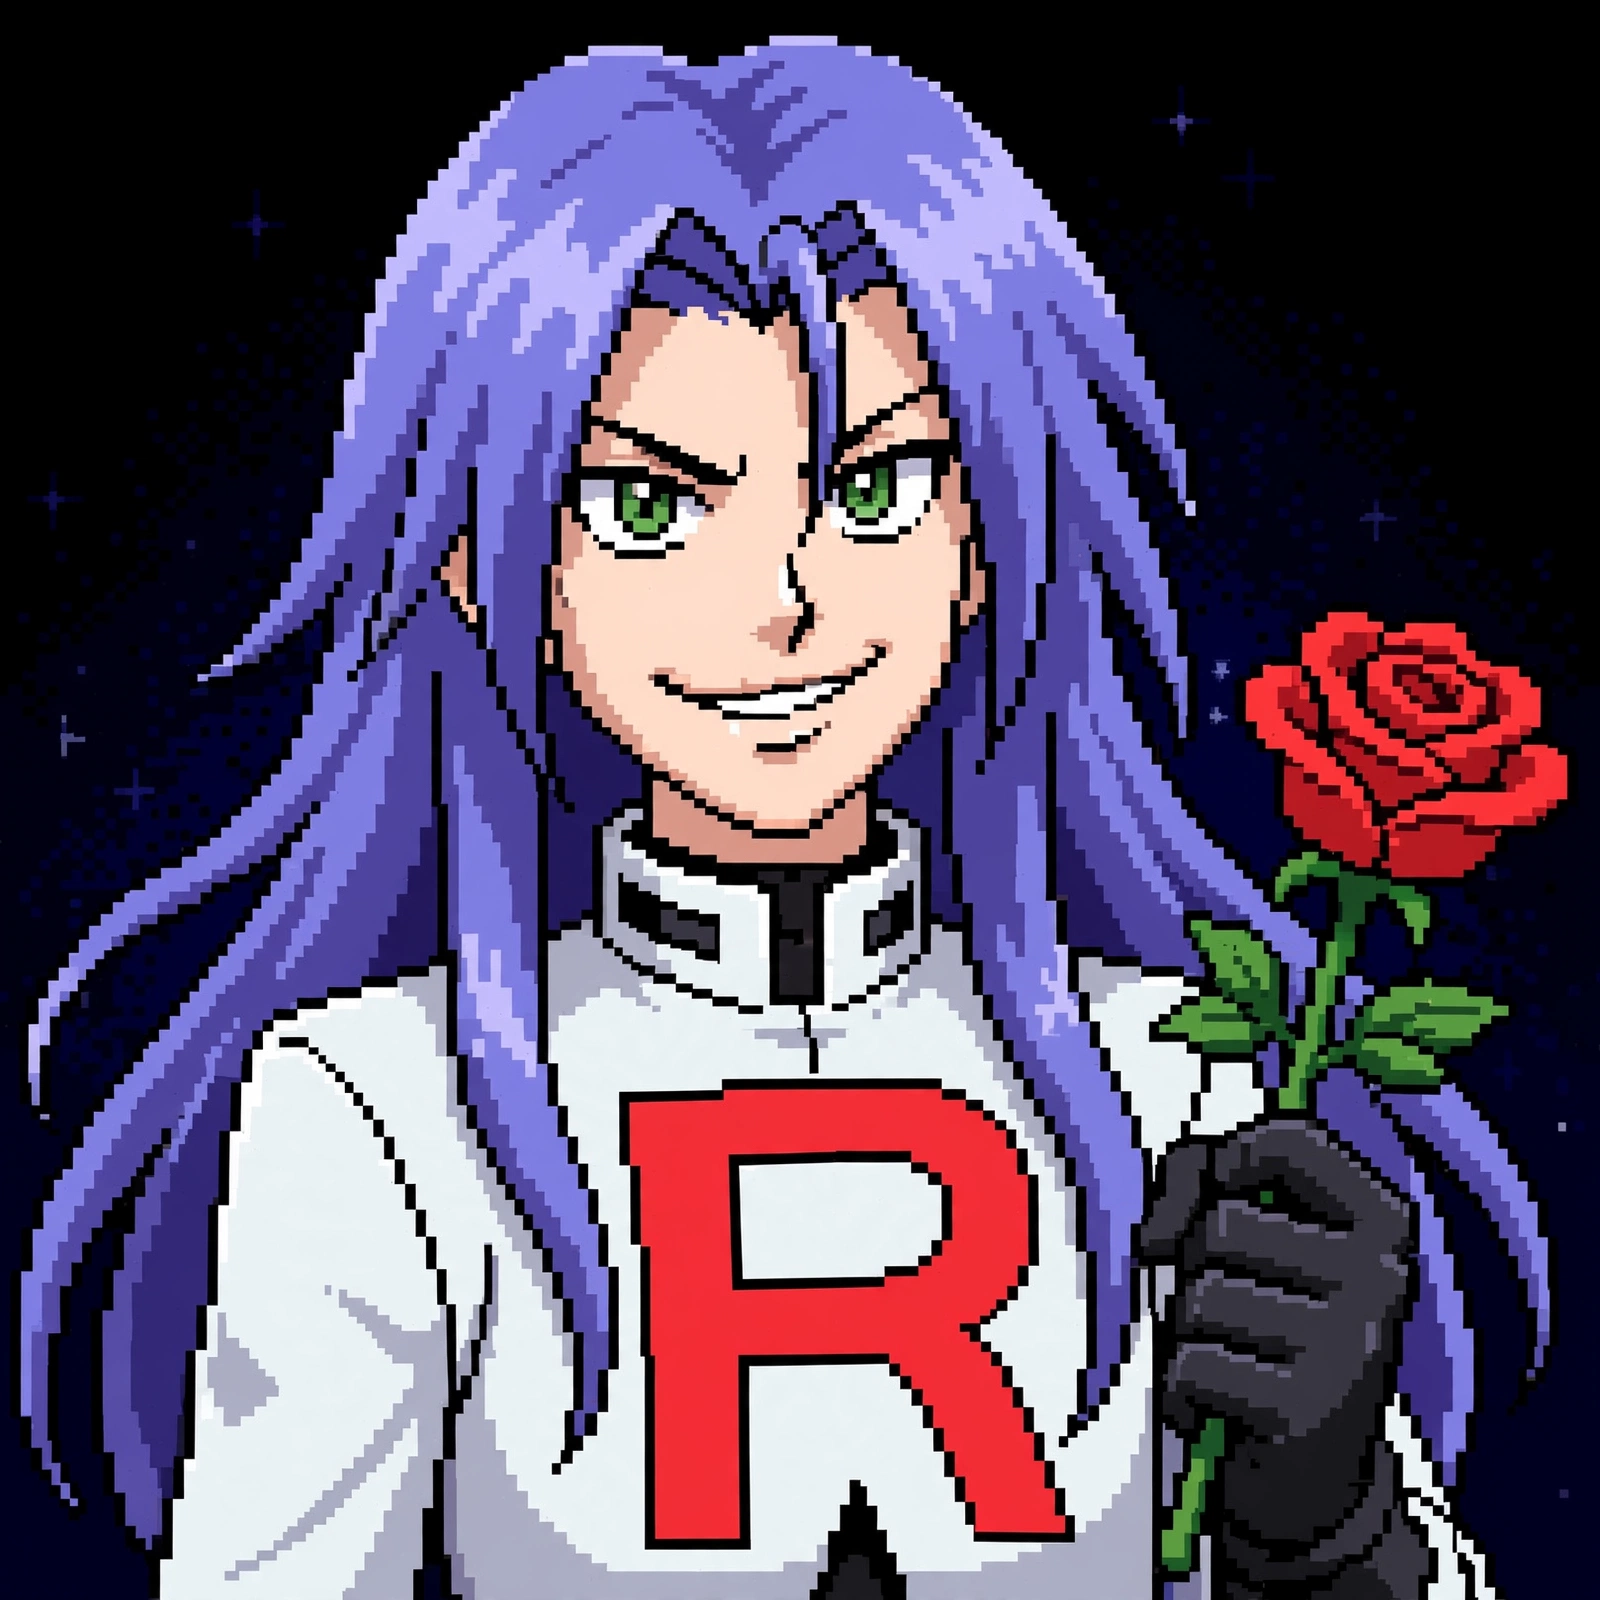
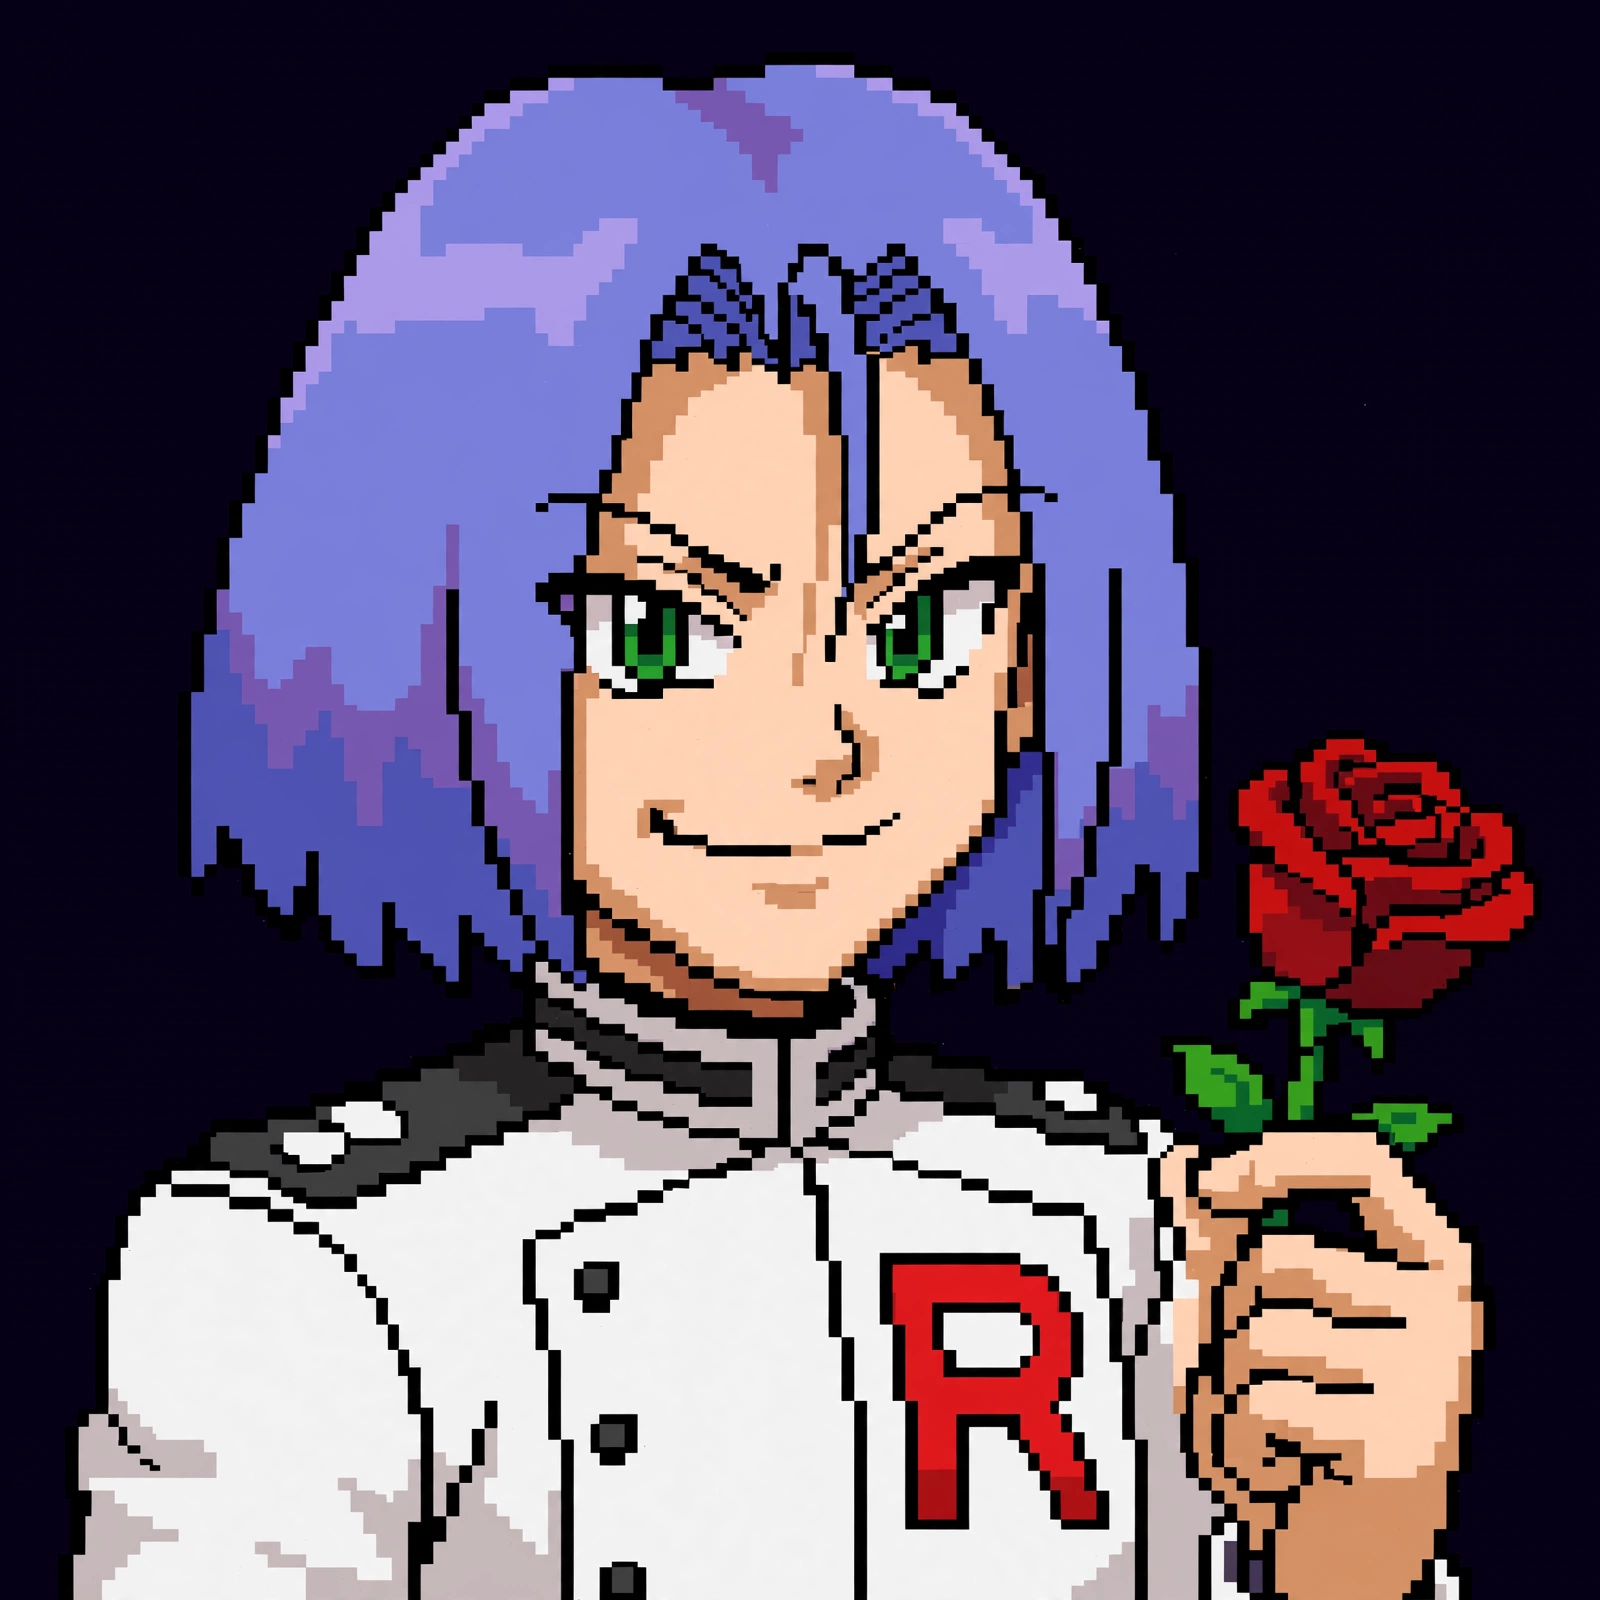
로이 단발로 수정

diff --git a/src/ui/main.js b/src/ui/main.js
@@ -1,12 +1,12 @@
 // DOM glue: renders controller state into regions, wires taps, and paces AI turns.
 
-import { CARDS } from '../data/cards.js?v=1791268011';
-import { ACHIEVEMENTS, checkAchievements } from '../data/achievements.js?v=1791268011';
-import { CHALLENGES, challengeWon } from '../data/challenges.js?v=1791268011';
-import { createController } from './controller.js?v=1791268011';
-import * as V from './view.js?v=1791268011';
-import { getBonuses, getPoints, bonusList } from '../core/engine.js?v=1791268011';
-import { browserStorage, loadDex, loadSave, saveGame, clearSave, recordCatch, recordGame, loadOptions, saveOptions, loadAchv, unlockAchv, loadRecords, recordResult, victoryScore, loadChal, completeChal } from '../storage/store.js?v=1791268011';
+import { CARDS } from '../data/cards.js?v=1791268496';
+import { ACHIEVEMENTS, checkAchievements } from '../data/achievements.js?v=1791268496';
+import { CHALLENGES, challengeWon } from '../data/challenges.js?v=1791268496';
+import { createController } from './controller.js?v=1791268496';
+import * as V from './view.js?v=1791268496';
+import { getBonuses, getPoints, bonusList } from '../core/engine.js?v=1791268496';
+import { browserStorage, loadDex, loadSave, saveGame, clearSave, recordCatch, recordGame, loadOptions, saveOptions, loadAchv, unlockAchv, loadRecords, recordResult, victoryScore, loadChal, completeChal } from '../storage/store.js?v=1791268496';
 
 const params = new URLSearchParams(location.search);
 const AI_DELAY = params.has('fast') ? 0 : 1600; // ?fast=1 skips the pacing delay (tests)

diff --git a/src/ui/view.js b/src/ui/view.js
@@ -1,12 +1,12 @@
 // Pure HTML-string renderers. Each takes the controller and returns markup; main.js owns the DOM.
 // All text interpolated here comes from our own card data / constants (no user input).
 
-import { COLORS, MASTER, PHASES, TOKEN_KEYS } from '../core/constants.js?v=1791268011';
-import { getBonuses, getPoints, tokenCount, bonusList, isSpecial } from '../core/engine.js?v=1791268011';
-import { BALLS, TRAINERS, evoText } from './controller.js?v=1791268011';
-import { dexSummary } from '../storage/store.js?v=1791268011';
-import { ACHIEVEMENTS } from '../data/achievements.js?v=1791268011';
-import { CHALLENGES, challengeProgress } from '../data/challenges.js?v=1791268011';
+import { COLORS, MASTER, PHASES, TOKEN_KEYS } from '../core/constants.js?v=1791268496';
+import { getBonuses, getPoints, tokenCount, bonusList, isSpecial } from '../core/engine.js?v=1791268496';
+import { BALLS, TRAINERS, evoText } from './controller.js?v=1791268496';
+import { dexSummary } from '../storage/store.js?v=1791268496';
+import { ACHIEVEMENTS } from '../data/achievements.js?v=1791268496';
+import { CHALLENGES, challengeProgress } from '../data/challenges.js?v=1791268496';
 
 const diffLabel = { easy: '쉬움', normal: '보통', hard: '어려움' };
 

diff --git a/src/ai/heuristic.js b/src/ai/heuristic.js
@@ -3,10 +3,10 @@
 // Works in every phase (action / discard / evolve); the UI drives AI turns with it.
 // Turn pacing (0.8s) lives in ui/main.js (AI_DELAY), not here.
 
-import { COLORS, MASTER, TOKEN_KEYS, PHASES, MAX_TOKENS, MAX_HAND, TIER_KEYS } from '../core/constants.js?v=1791268011';
+import { COLORS, MASTER, TOKEN_KEYS, PHASES, MAX_TOKENS, MAX_HAND, TIER_KEYS } from '../core/constants.js?v=1791268496';
 import {
   legalActions, getCurrentPlayer, getBonuses, bonusList, isSpecial, evolveOptions, tokenCount,
-} from '../core/engine.js?v=1791268011';
+} from '../core/engine.js?v=1791268496';
 
 const BASE_JITTER = 0.01; // breaks exact ties so the three AIs do not play identically
 

diff --git a/index.html b/index.html
@@ -7,7 +7,7 @@
 <title>포켓몬 스플렌더</title>
 <link rel="icon" href="assets/favicon.ico" sizes="any">
 <link rel="icon" type="image/png" href="assets/items/poke-ball.png">
-<link rel="stylesheet" href="css/style.css?v=1791268011">
+<link rel="stylesheet" href="css/style.css?v=1791268496">
 </head>
 <body>
 <div class="phone" id="app">
@@ -34,6 +34,6 @@
 </div>
 <div id="sheet"></div>
 <div id="overlay"></div>
-<script type="module" src="src/ui/main.js?v=1791268011"></script>
+<script type="module" src="src/ui/main.js?v=1791268496"></script>
 </body>
 </html>

diff --git a/src/core/engine.js b/src/core/engine.js
@@ -5,8 +5,8 @@ import {
   COLORS, MASTER, TOKEN_KEYS, MASTER_TOTAL, TOKENS_PER_COLOR, MAX_TOKENS, MAX_HAND,
   WIN_POINTS, TIER_KEYS, RESERVABLE_TIER_KEYS, TABLE_SLOTS, SPECIAL_TIER_KEYS, PHASES,
   RULE_CHOICES,
-} from './constants.js?v=1791268011';
-import { nextInt, shuffle } from './rng.js?v=1791268011';
+} from './constants.js?v=1791268496';
+import { nextInt, shuffle } from './rng.js?v=1791268496';
 
 const ok = (state, events) => ({ ok: true, state, events });
 const fail = (error) => ({ ok: false, error });

diff --git a/src/ui/controller.js b/src/ui/controller.js
@@ -5,8 +5,8 @@
 import {
   COLORS, MASTER, PHASES, MAX_HAND,
   createGame, applyAction, legalActions, computePayment, evolveOptions, getCurrentPlayer, tokenCount,
-} from '../core/index.js?v=1791268011';
-import { chooseAction } from '../ai/heuristic.js?v=1791268011';
+} from '../core/index.js?v=1791268496';
+import { chooseAction } from '../ai/heuristic.js?v=1791268496';
 
 export const BALLS = {
   monster: { file: 'poke-ball', name: '몬스터볼', short: '몬스터' },

diff --git a/src/core/index.js b/src/core/index.js
@@ -1,3 +1,3 @@
-export * from './constants.js?v=1791268011';
-export * from './rng.js?v=1791268011';
-export * from './engine.js?v=1791268011';
+export * from './constants.js?v=1791268496';
+export * from './rng.js?v=1791268496';
+export * from './engine.js?v=1791268496';
